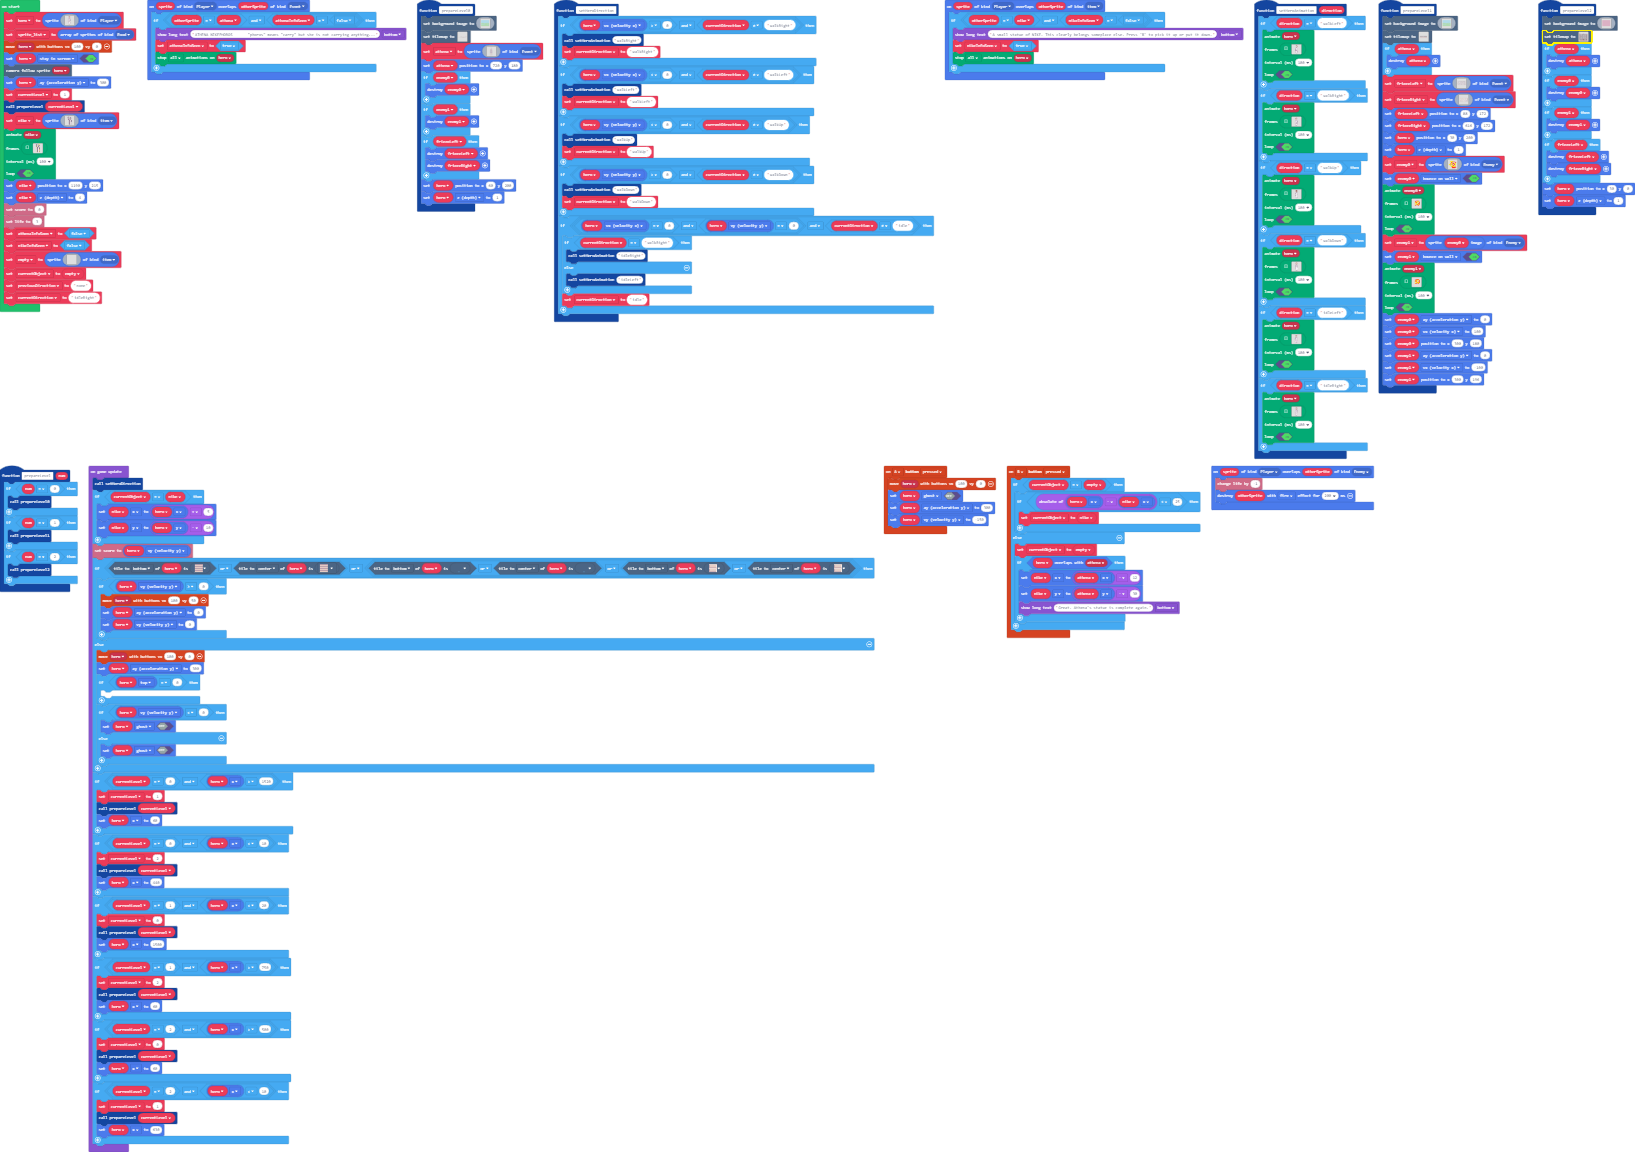
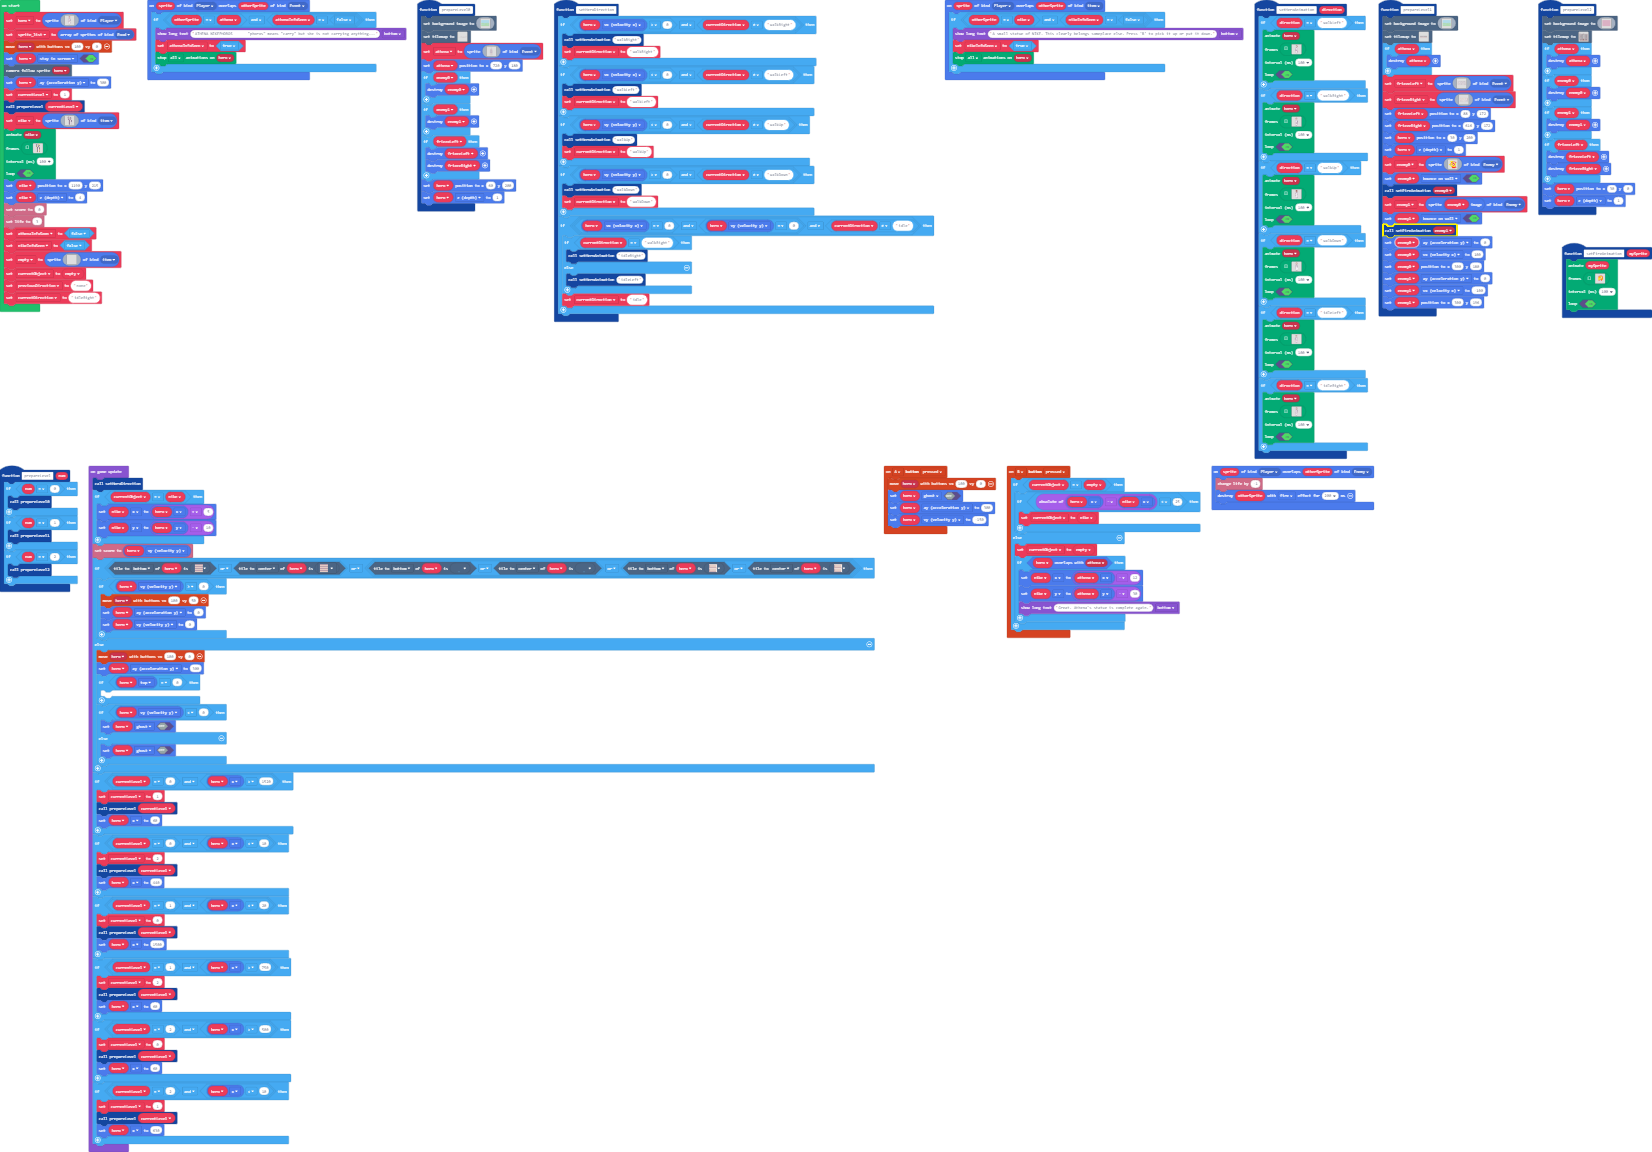
Update main.blocks, main.ts

diff --git a/main.ts b/main.ts
@@ -1550,6 +1550,48 @@ sprites.onOverlap(SpriteKind.Player, SpriteKind.Event, function (sprite, otherSp
         animation.stopAnimation(animation.AnimationTypes.All, hero)
     }
 })
+function setFireAnimation (mySprite: Sprite) {
+    animation.runImageAnimation(
+    mySprite,
+    [img`
+. . . . . . . . . . . . . . . . 
+. . . . . . . . . . . . . . . . 
+. . . . . . . 2 2 2 2 2 . . . . 
+. . . . . 2 2 . 5 5 5 5 2 . . . 
+. . . . . 2 5 5 5 . . 5 . 2 . . 
+. . . . . 5 5 2 2 5 . . 5 2 . . 
+. . . . 5 2 5 2 5 . . . 5 2 . . 
+. . . . 5 . 5 5 5 . . 2 5 2 . . 
+. . . . 5 . . 5 5 5 5 5 5 2 . . 
+. . . . 5 . 5 5 . 2 2 5 5 2 . . 
+. . . . 5 5 . 2 2 . 2 5 5 . . . 
+. . . . . 2 2 . . . 2 2 . . . . 
+. . . . . . . . . . . . . . . . 
+. . . . . . . . . . . . . . . . 
+. . . . . . . . . . . . . . . . 
+. . . . . . . . . . . . . . . . 
+`,img`
+. . . . . . . . . . . . . . . . 
+. . . . . . . . . . . . . . . . 
+. . . . . . . . . . . . . . . . 
+. . . . . . 5 5 2 2 . . . . . . 
+. . . . . 2 2 2 5 5 2 2 . . . . 
+. . . . 2 2 . . . 5 5 . 2 2 . . 
+. . . . 2 . . 2 . . 5 5 5 2 . . 
+. . . . 2 . 5 2 . . 5 . 2 . . . 
+. . . . 2 2 5 2 . 2 2 . 2 . . . 
+. . . . . 2 5 2 2 2 2 2 2 . . . 
+. . . . . 2 2 5 . . . 5 . . . . 
+. . . . . . . 2 2 2 2 5 . . . . 
+. . . . . . . . . . . . . . . . 
+. . . . . . . . . . . . . . . . 
+. . . . . . . . . . . . . . . . 
+. . . . . . . . . . . . . . . . 
+`],
+    100,
+    true
+    )
+}
 function prepareLevel0 () {
     scene.setBackgroundImage(img`
 9 9 9 9 9 9 9 9 9 9 9 9 9 9 9 9 9 9 9 9 9 9 9 9 9 9 9 9 9 9 9 9 9 9 9 9 9 9 9 9 9 9 9 9 9 9 9 9 9 9 9 9 9 9 9 9 9 9 9 9 9 9 9 9 9 9 9 9 9 9 9 9 9 9 9 9 9 9 9 9 9 9 9 9 9 9 9 9 9 9 9 9 9 9 9 9 9 9 9 9 9 9 9 9 9 9 9 9 9 9 9 9 9 9 9 9 9 9 9 9 9 9 9 9 9 9 9 9 9 9 9 9 9 9 9 9 9 9 9 9 9 9 9 9 9 9 9 9 9 9 9 9 9 9 9 9 9 9 9 9 
@@ -2517,88 +2559,10 @@ c c c c c c c c c c c c c c c c c c c c c c c c c c c c c 1 c c c c c c c c c c 
 . . . . . . . 2 2 2 2 2 . . . . 
 `, SpriteKind.Enemy)
     enemy0.setFlag(SpriteFlag.BounceOnWall, true)
-    animation.runImageAnimation(
-    enemy0,
-    [img`
-. . . . . . . . . . . . . . . . 
-. . . . . . . . . . . . . . . . 
-. . . . . . . 2 2 2 2 2 . . . . 
-. . . . . 2 2 . 5 5 5 5 2 . . . 
-. . . . . 2 5 5 5 . . 5 . 2 . . 
-. . . . . 5 5 2 2 5 . . 5 2 . . 
-. . . . 5 2 5 2 5 . . . 5 2 . . 
-. . . . 5 . 5 5 5 . . 2 5 2 . . 
-. . . . 5 . . 5 5 5 5 5 5 2 . . 
-. . . . 5 . 5 5 . 2 2 5 5 2 . . 
-. . . . 5 5 . 2 2 . 2 5 5 . . . 
-. . . . . 2 2 . . . 2 2 . . . . 
-. . . . . . . . . . . . . . . . 
-. . . . . . . . . . . . . . . . 
-. . . . . . . . . . . . . . . . 
-. . . . . . . . . . . . . . . . 
-`,img`
-. . . . . . . . . . . . . . . . 
-. . . . . . . . . . . . . . . . 
-. . . . . . . . . . . . . . . . 
-. . . . . . 5 5 2 2 . . . . . . 
-. . . . . 2 2 2 5 5 2 2 . . . . 
-. . . . 2 2 . . . 5 5 . 2 2 . . 
-. . . . 2 . . 2 . . 5 5 5 2 . . 
-. . . . 2 . 5 2 . . 5 . 2 . . . 
-. . . . 2 2 5 2 . 2 2 . 2 . . . 
-. . . . . 2 5 2 2 2 2 2 2 . . . 
-. . . . . 2 2 5 . . . 5 . . . . 
-. . . . . . . 2 2 2 2 5 . . . . 
-. . . . . . . . . . . . . . . . 
-. . . . . . . . . . . . . . . . 
-. . . . . . . . . . . . . . . . 
-. . . . . . . . . . . . . . . . 
-`],
-    100,
-    true
-    )
+    setFireAnimation(enemy0)
     enemy1 = sprites.create(enemy0.image, SpriteKind.Enemy)
     enemy1.setFlag(SpriteFlag.BounceOnWall, true)
-    animation.runImageAnimation(
-    enemy1,
-    [img`
-. . . . . . . . . . . . . . . . 
-. . . . . . . . . . . . . . . . 
-. . . . . . . 2 2 2 2 2 . . . . 
-. . . . . 2 2 . 5 5 5 5 2 . . . 
-. . . . . 2 5 5 5 . . 5 . 2 . . 
-. . . . . 5 5 2 2 5 . . 5 2 . . 
-. . . . 5 2 5 2 5 . . . 5 2 . . 
-. . . . 5 . 5 5 5 . . 2 5 2 . . 
-. . . . 5 . . 5 5 5 5 5 5 2 . . 
-. . . . 5 . 5 5 . 2 2 5 5 2 . . 
-. . . . 5 5 . 2 2 . 2 5 5 . . . 
-. . . . . 2 2 . . . 2 2 . . . . 
-. . . . . . . . . . . . . . . . 
-. . . . . . . . . . . . . . . . 
-. . . . . . . . . . . . . . . . 
-. . . . . . . . . . . . . . . . 
-`,img`
-. . . . . . . . . . . . . . . . 
-. . . . . . . . . . . . . . . . 
-. . . . . . . . . . . . . . . . 
-. . . . . . 5 5 2 2 . . . . . . 
-. . . . . 2 2 2 5 5 2 2 . . . . 
-. . . . 2 2 . . . 5 5 . 2 2 . . 
-. . . . 2 . . 2 . . 5 5 5 2 . . 
-. . . . 2 . 5 2 . . 5 . 2 . . . 
-. . . . 2 2 5 2 . 2 2 . 2 . . . 
-. . . . . 2 5 2 2 2 2 2 2 . . . 
-. . . . . 2 2 5 . . . 5 . . . . 
-. . . . . . . 2 2 2 2 5 . . . . 
-. . . . . . . . . . . . . . . . 
-. . . . . . . . . . . . . . . . 
-. . . . . . . . . . . . . . . . 
-. . . . . . . . . . . . . . . . 
-`],
-    100,
-    true
-    )
+    setFireAnimation(enemy1)
     enemy0.ay = 0
     enemy0.vx = 100
     enemy0.setPosition(300, 180)
